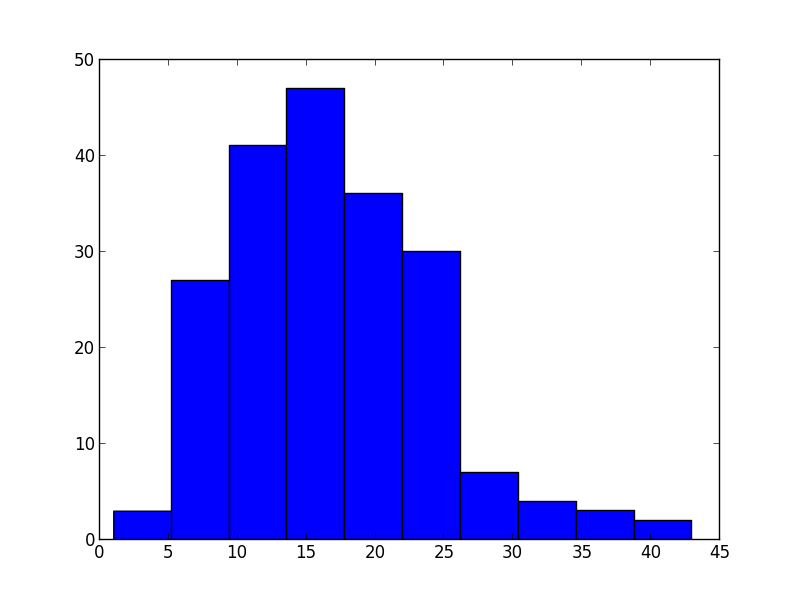
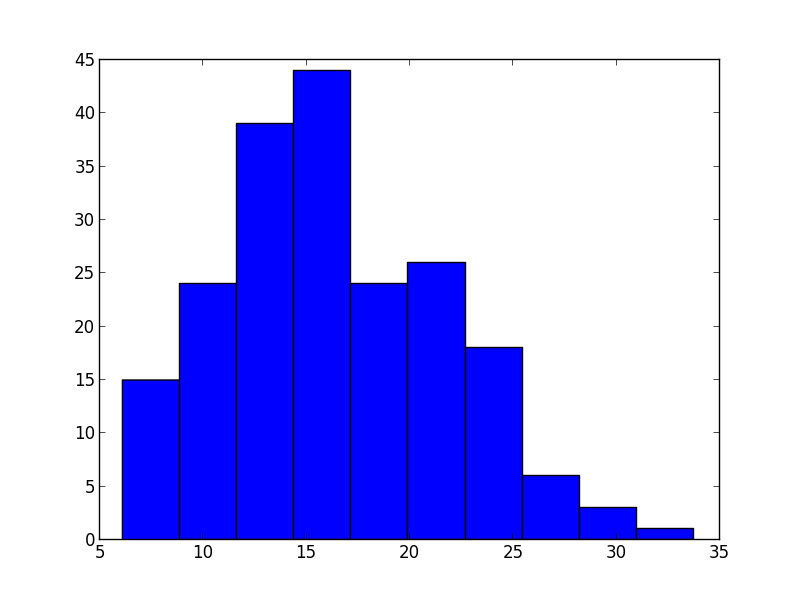
Determined a good tax starting point

diff --git a/gold_withtax.py b/gold_withtax.py
@@ -49,16 +49,21 @@ class TaxMan:
 		self.income = 0.0
 		self.agent_count = agent_count * 1.0 #make it a real number
 
+	def reset_zero(self):
+		if (self.income < 0.00001):
+			self.income = 0
+
 	def tax_agents(self):
 		for agent in self.agents:
 			remainder = agent.deduct(agent.wallet * self.tax_rate)
-			self.income += agent.wallet * self.tax_rate - remainder
+			self.income += agent.wallet * self.tax_rate
 
 	def refund_agents(self):
 		fair = self.income / self.agent_count
 		for agent in self.agents:
 			agent.credit(fair)
 			self.income -= fair
+		self.reset_zero()
 
 class Agent:
 
@@ -217,7 +222,7 @@ def hist(bfw, figname):
 	pyplot.clf()
 		
 def main():
-		wallets = run(2000, 200, 0.0)
+		wallets = run(2000, 200, 0.0001)
 		hist(wallets, 'test')
 
 if __name__ == '__main__':
